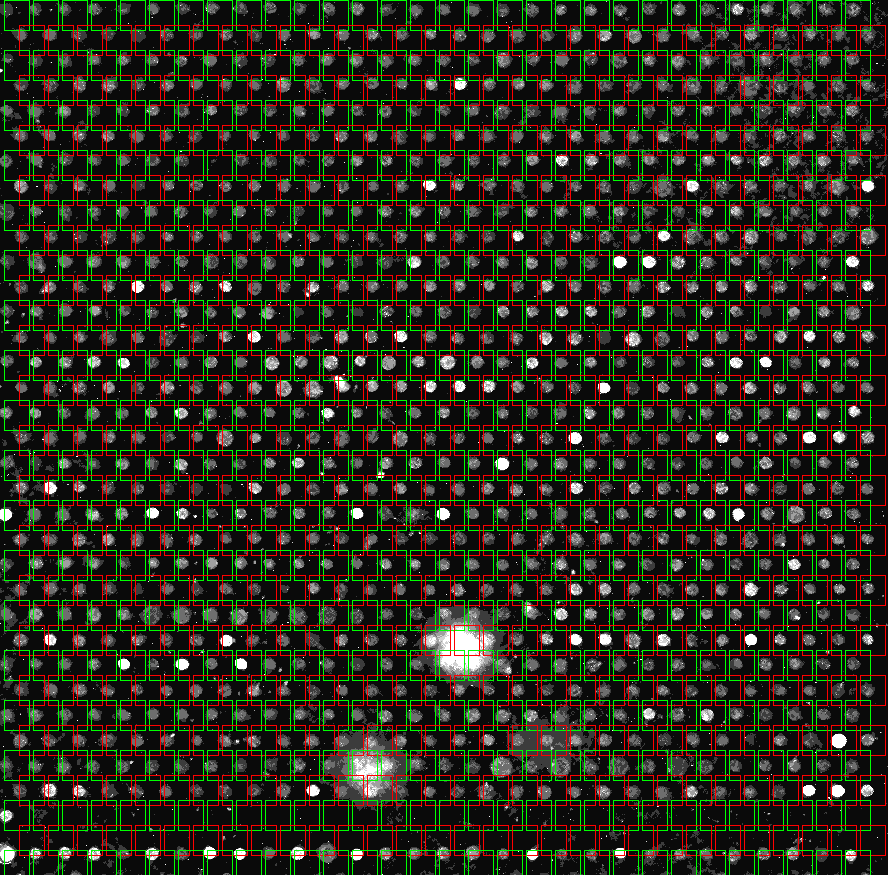
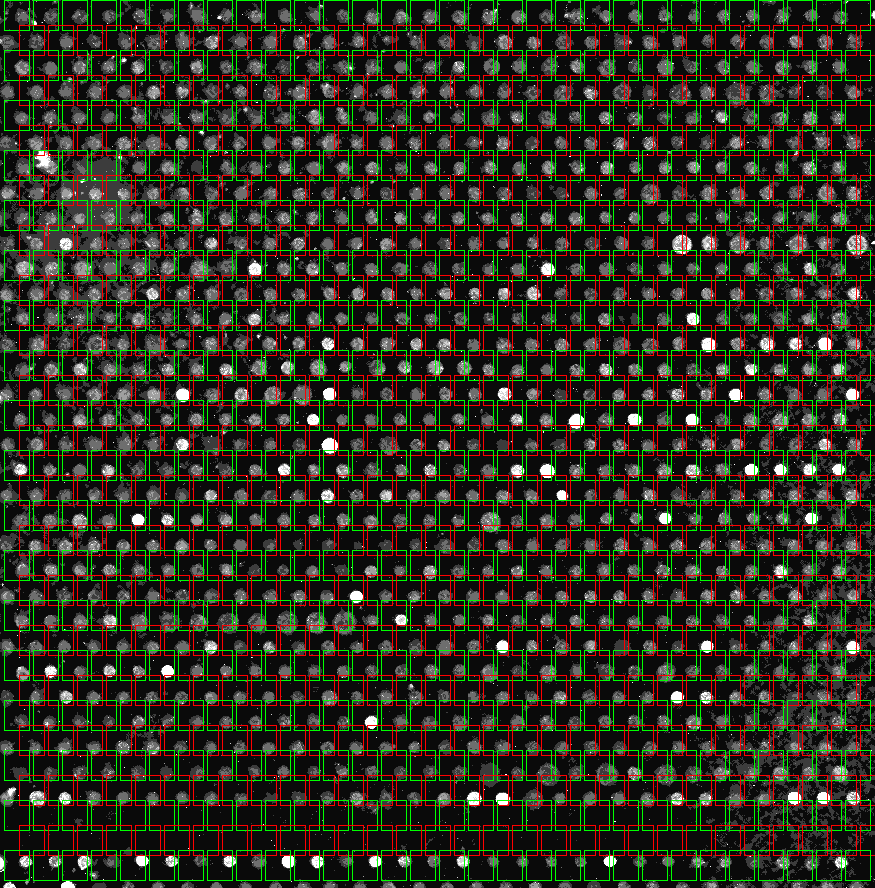
Fixed README.md and uamf json files

diff --git a/praca_inzynierska.py b/praca_inzynierska.py
@@ -15,7 +15,7 @@ import fnmatch
 import numpy as np
 import scipy.io
 from uamf import BlockMeta
-from uamf.ds import Size, Point
+from uamf.ds import Size, Point, Spot
 
 from window import MainWindow1, rect_list
 
@@ -492,7 +492,12 @@ class Ui_MainWindow(object):
                 fixed_path = p + name_of_block_location_folder
                 path_of_mat = os.path.abspath(fixed_path)
 
-                Number_Of_files.append(len(fnmatch.filter(os.listdir(fixed_path), '*.mat')))
+                number_of_mat = len(fnmatch.filter(os.listdir(fixed_path), '*.mat'))
+                number_of_json = len(fnmatch.filter(os.listdir(fixed_path), '*.json'))
+                if (number_of_mat == 0):
+                    Number_Of_files.append(number_of_json)
+                else:
+                    Number_Of_files.append(number_of_mat)
 
                 tif = image.split('/')[-1]
                 tif2 = tif.split('.')[-1]
@@ -524,22 +529,57 @@ class Ui_MainWindow(object):
                                             mat_path = x
                                             break
 
+                        path_of_read_files = mat_path.split('.')[1]
                         # Reading MetaData from .mat files
-                        mat = scipy.io.loadmat('MatReading/' + name_of_block_location_folder + '/' + mat_path)
-                        math_key = mat_path.split('.')
+                        if path_of_read_files == 'mat':
+                            mat = scipy.io.loadmat('MatReading/' + name_of_block_location_folder + '/' + mat_path)
+                            math_key = mat_path.split('.')
 
-                        posy = mat[math_key[0]]['blockHeightPix'][0][0][0][0]
-                        posx = mat[math_key[0]]['blockWidthPix'][0][0][0][0]
-                        centerx = mat[math_key[0]]['blockCornerX'][0][0][0][0]
-                        centery = mat[math_key[0]]['blockCornerY'][0][0][0][0]
-                        amount_of_columns = mat[math_key[0]]['nColumns'][0][0][0][0]
-                        amount_of_rows = mat[math_key[0]]['nRows'][0][0][0][0]
-                        amount_of_spots = mat[math_key[0]]['nFeatures'][0][0][0][0]
+                            posy = mat[math_key[0]]['blockHeightPix'][0][0][0][0]
+                            posx = mat[math_key[0]]['blockWidthPix'][0][0][0][0]
+                            centerx = mat[math_key[0]]['blockCornerX'][0][0][0][0]
+                            centery = mat[math_key[0]]['blockCornerY'][0][0][0][0]
+                            amount_of_columns = mat[math_key[0]]['nColumns'][0][0][0][0]
+                            amount_of_rows = mat[math_key[0]]['nRows'][0][0][0][0]
+                            amount_of_spots = mat[math_key[0]]['nFeatures'][0][0][0][0]
 
-                        block = BlockMeta(mat_path, Size(posy, posx), amount_of_rows, amount_of_columns,
-                                          amount_of_spots, mat_path, Point(centerx, centery), list)
-                        block_definition_dict[i + 1] = block
-                        block_definition_dict['block' + str(i + 1)] = 'No'
+                            block = BlockMeta(mat_path, Size(posy, posx), amount_of_rows, amount_of_columns,
+                                              amount_of_spots, mat_path, Point(centerx, centery), list)
+                            block_definition_dict[i + 1] = block
+                            block_definition_dict['block' + str(i + 1)] = 'No'
+
+                        # Reading MetaData from .json uamf files
+                        elif path_of_read_files == 'json':
+
+                            spot_data = Spot(1, 10, 11, Point(100, 120), Size(12, 14), Point(105, 126), False)
+                            b = BlockMeta("", Size(100, 100), 10, 15, 10, "", Point(100, 100),
+                                              spot_type=dict)
+                            b.add_spot(spot_data)
+                            b.calc_spots_number()
+                            b.calc_mean_spot_size()
+
+                            read_block = b.from_file('MatReading/' + name_of_block_location_folder + '/' + mat_path)
+                            posy = read_block.height
+                            posx = read_block.width
+                            centerx = read_block.pos_x
+                            centery = read_block.pos_y
+                            amount_of_columns = read_block.columns_number
+                            amount_of_rows = read_block.rows_number
+                            amount_of_spots = read_block.spots_number
+
+                            block = BlockMeta(mat_path, Size(posy, posx), amount_of_rows, amount_of_columns,
+                                              amount_of_spots, mat_path, Point(centerx, centery), list)
+                            block_definition_dict[i + 1] = block
+                            block_definition_dict['block' + str(i + 1)] = 'No'
+
+                        else:
+                            msg = QMessageBox()
+                            msg.setWindowTitle("Extracting")
+                            msg.setText(
+                                "There is a problem with extracting file. Files must have extensions .zip or .tar.gz and must contain mat or json files")
+                            msg.setIcon(QMessageBox.Warning)
+                            x = msg.exec_()
+                            return 0
 
                         # Draw blocks on image
                         if counter == 0:
@@ -581,7 +621,6 @@ class Ui_MainWindow(object):
                     self.scene.addItem(y)
 
                 self.view.fitInView(self.scene.sceneRect(), Qt.KeepAspectRatio)
-                print(Number_Of_files[0])
                 self.filltable(Number_Of_files[0])
                 self.horizontalScrollBar.setVisible(True)
                 self.horizontalScrollBar_2.setVisible(True)
@@ -889,7 +928,7 @@ class MainWindow(QMainWindow, Ui_MainWindow):
 
 if __name__ == "__main__":
     import sys
-
+    # Start the application
     app = QtWidgets.QApplication(sys.argv)
     w = MainWindow()
     w.showMaximized()

diff --git a/README.md b/README.md
@@ -34,10 +34,10 @@ Instalujemy pakiety dla aplikacji
     python -m pip install -r requirements/requirements_windows.txt
 ```
 Instalujemy bibliotekę uamf
-* Wypakowujemy plik uamf-0.5.0.zip
+* Wypakowujemy plik uamf-0.6.0.zip
 * Uruchamiamy polecenia
 ```
-    cd uamf-0.5.0
+    cd uamf-0.6.0
     python setup.py install
     cd ..
 ```
@@ -73,8 +73,8 @@ Instalujemy osobno dodatkowy pakiet do aplikacji (występowały problemy z impor
 ```
 Instalujemy bibliotekę uamf
 ```
-    $ tar -xf uamf-0.5.0.tar.gz
-    $ cd uamf-0.5.0
+    $ tar -xf uamf-0.6.0.tar.gz
+    $ cd uamf-0.6.0
     $ touch .version
     $ python3 setup.py install
 ```
